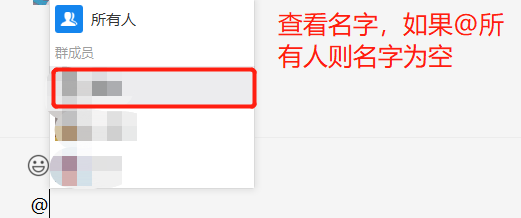
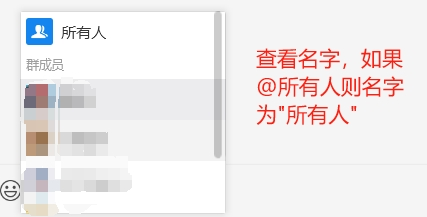
将发送信息与@他人的功能合并为一个函数，允许用户在@他人的同时发送信息。

diff --git a/ui_auto_wechat.py b/ui_auto_wechat.py
@@ -108,56 +108,58 @@ class WeChat:
         # 获取发送按钮
         send_button = auto.ButtonControl(Depth=15, Name=self.lc.send)
         click(send_button)
-    
-    def at(self, name, at_name, search_user: bool = True) -> None:
+
+    def paste_text(self, text: str) -> None:
         """
-        在指定群聊中@他人（若@所有人需具备@所有人权限）
+        封装文本粘贴逻辑
+        Args:
+            text: 待发送文本
+        """
+        pyperclip.copy(text)
+        # 等待粘贴
+        time.sleep(0.3)
+        auto.SendKeys("{Ctrl}v")
+
+    def send_msg(self, name, at_names: List[str] = None, text: str = None, search_user: bool = True) -> bool:
+        """
+        搜索指定用户名的联系人发送信息, 同时可以在指定群聊中@他人（若@所有人需具备@所有人权限）
         Args:
             name:  群聊名称
-            at_name: 要@的人的昵称
+            at_name: 若发送对象为群，则可以@他人（若@所有人需具备@所有人权限）
+            text: 要@的人的消息
             search_user: 是否需要搜索群聊
         """
         if search_user:
             self.get_contact(name)
         
-        # 如果at_name为空则代表@所有人
-        if at_name == "":
-            auto.SendKeys("@{UP}{enter}")
-            self.press_enter()
-        
-        else:
-            auto.SendKeys(f"@{at_name}")
-            # 按下回车键确认要at的人
-            auto.SendKeys("{enter}")
-            self.press_enter()
-    
-    def send_msg(self, name, text, search_user: bool = True) -> bool:
-        """
-        搜索指定用户名的联系人发送信息
-        Args:
-            name: 指定用户名的名称，输入搜索框后出现的第一个人
-            text: 发送的文本信息
-            search_user: 是否需要搜索用户
-        """
-        if search_user:
-            self.get_contact(name)
-        pyperclip.copy(text)
+        if at_names is not None:
+            # @所有列表中的人名
+            for at_name in at_names:
+                # 如果at_name为 "所有人" 则代表@所有人
+                if at_name == "所有人":
+                    auto.SendKeys("@{UP}{enter}")
 
-        # 等待粘贴
-        time.sleep(0.3)
-        auto.SendKeys("{Ctrl}v")
+                else:
+                    auto.SendKeys(f"@{at_name}")
+                    # 按下回车键确认要at的人
+                    auto.SendKeys("{enter}")
+
+        # 如果发送信息不为空，则发送信息
+        if text is not None:
+            self.paste_text(text)
 
         self.press_enter()
+
         # 发送消息后马上获取聊天记录，判断是否发送成功
         try:
             if self.get_dialogs(name, 1, False)[0][2] == text:
                 return True
             else:
                 return False
-            
+
         except Exception:
             return False
-    
+
     # 搜索指定用户名的联系人发送文件
     def send_file(self, name: str, path: str, search_user: bool = True) -> None:
         """
@@ -511,19 +513,24 @@ class WeChat:
 
 if __name__ == '__main__':
     # # 测试
-    path = "C:\Program Files (x86)\Tencent\WeChat\WeChat.exe"
-    # path = "D:\Program Files (x86)\Tencent\WeChat\WeChat.exe"
+    # path = "C:\Program Files (x86)\Tencent\WeChat\WeChat.exe"
+    path = "D:\Program Files (x86)\Tencent\WeChat\WeChat.exe"
     wechat = WeChat(path, locale="zh-CN")
     
     # wechat.check_new_msg()
-    res = wechat.find_all_contacts()
-    print(res)
+    # res = wechat.find_all_contacts()
+    # print(res)
 
     # groups = wechat.find_all_groups()
     # print(groups)
     # print(len(groups))
+
+    name = "四片"
+    at_name = ["fan", "wen", "所有人"]
+    text = "去不去吃饭"
+    wechat.send_msg(name, at_name, text)
     
-    # name = "文件"
+    # name = ""
     # msg = "你\n好"
     # wechat.get_contact(name)
     # wechat.send_msg(name, msg)

diff --git a/wechat_gui.py b/wechat_gui.py
@@ -332,23 +332,19 @@ class WechatGUI(QWidget):
         # 增加一条文本信息
         def add_text():
             inputs = [
-                "请输入发送的内容",
+                "是否需要at他人(无则不填，有则填写所有你要at的人名，用英文逗号分隔。要at所有人就填写'所有人')",
+                "请输入发送的文本内容(如果需要换行则输入\\n，例如你好\\n吃饭了吗？)",
                 "请指定发送给哪些用户(1,2,3代表发送给前三位用户)，如需全部发送请忽略此项",
             ]
             dialog = MultiInputDialog(inputs)
             if dialog.exec_() == QDialog.Accepted:
-                text, to = dialog.get_input()
+                at, text, to = dialog.get_input()
                 to = "all" if to == "" else to
                 if text != "":
                     # 消息的序号
                     rank = self.msg.count() + 1
 
-                    # 判断给文本是否是@信息
-                    if text[:3] == "at:":
-                        self.msg.addItem(f"{rank}:at:{to}:{str(text[3:])}")
-                    else:
-                        self.msg.addItem(f"{rank}:text:{to}:{str(text)}")
-
+                    self.msg.addItem(f"{rank}:text:{to}:{at}:{str(text)}")
                     update_messages()
 
         # 增加一个文件
@@ -410,15 +406,14 @@ class WechatGUI(QWidget):
                         if to == "all" or str(rank) in to.split(','):
                             # 判断为文本内容
                             if type == "text":
-                                self.wechat.send_msg(name, content, search_user)
+                                # 分出at的人和发送的文本内容
+                                at_names, text = content.split(":", 1)
+                                at_names = at_names.split(",")
+                                self.wechat.send_msg(name, at_names, text, search_user)
 
                             # 判断为文件内容
                             elif type == "file":
                                 self.wechat.send_file(name, content, search_user)
-
-                            # 判断为@他人
-                            elif type == "at":
-                                self.wechat.at(name, content, search_user)
 
                             # 搜索用户只在第一次发送时进行
                             search_user = False

diff --git a/README.md b/README.md
@@ -2,7 +2,7 @@
 
 PC端微信助手（非web微信版）：定时发送信息；群发信息；自动回复等。直接下载最新的exe即可使用。
 
-最新编辑日期：2025/03/15
+最新编辑日期：2025/03/29
 
 有疑问推荐在Issues上提出以供他人参考。
 
@@ -21,6 +21,10 @@ PC端微信助手（非web微信版）：定时发送信息；群发信息；自
 
 ## 更新日志
 
+#### 2025/03/29
+
+- 将发送信息与@他人的功能合并为一个函数，允许用户在@他人的同时发送信息，见 https://github.com/LTEnjoy/easyChat/issues/104 。感谢[@Halogly](https://github.com/Halogly)提供的灵感。
+
 #### 2025/03/15
 
 - 增加了配置文件的自动更新，现在**用户的所有操作都会被自动存储并且自动加载**，不用担心重启程序后之前的操作丢失。感谢[@Mcayear](https://github.com/Mcayear)提供的灵感。
@@ -28,10 +32,10 @@ PC端微信助手（非web微信版）：定时发送信息；群发信息；自
 #### 2025/02/14
 - 修复了获取微信全部好友功能的bug。
 
+<details><summary><b>展开</b></summary>
+
 #### 2025/01/17
 - 增加了对exe程序自适应屏幕尺寸的支持，现在可以在不同分辨率的屏幕上正常显示。
-
-<details><summary><b>展开</b></summary>
 
 #### 2024/11/19
 - 增加了exe程序对微信多种语言模式的支持（简体中文，繁体中文以及英文）。
@@ -170,9 +174,7 @@ PC端微信助手（非web微信版）：定时发送信息；群发信息；自
 
 ### 代码调用方式：
 
-- 在指定群聊中@他人（若@所有人需具备@所有人权限）-> def at()
-
-- 搜索指定用户名的联系人发送信息 -> def send_msg()
+- 搜索指定用户名的联系人发送信息，同时可在指定群聊中@他人 -> def send_msg()
 
 - 搜索指定用户名的联系人发送文件 -> def send_file()
 
@@ -241,11 +243,11 @@ PC端微信助手（非web微信版）：定时发送信息；群发信息；自
 
    ![@他人](pictures/@他人.png)
 
-2. 在界面中添加文本内容，格式为“at: + 人名”（如果@所有人则不需要填写人名，注意冒号为英文符号）
+2. 在界面中填写你要@的人名
 
    ![@他人添加](pictures/@他人添加.png)
 
-> 注意：@所有人时请确保拥有微信群@所有人的权限，否则将失败。目前不支持直接在@人名后发送内容，请先@人名，随后单独添加发送内容。
+> 注意：@所有人时请确保拥有微信群@所有人的权限，否则将失败。
 
 #### 加载用户txt文件
 
@@ -273,7 +275,7 @@ PC端微信助手（非web微信版）：定时发送信息；群发信息；自
 - 如果默认发送给所有对象，则输入all:，然后写上要发送的内容
 - 如果要发送给指定的对象，则输入用户的编号，多个用户之间用英文逗号分隔（如1,2,3），然后写上要发送的内容
 
-> 注意事项：指定对象与发送内容之间要用英文冒号进行分隔
+> 注意事项：不同列之间要用英文冒号进行分隔
 
 ## 友情赞助
 
